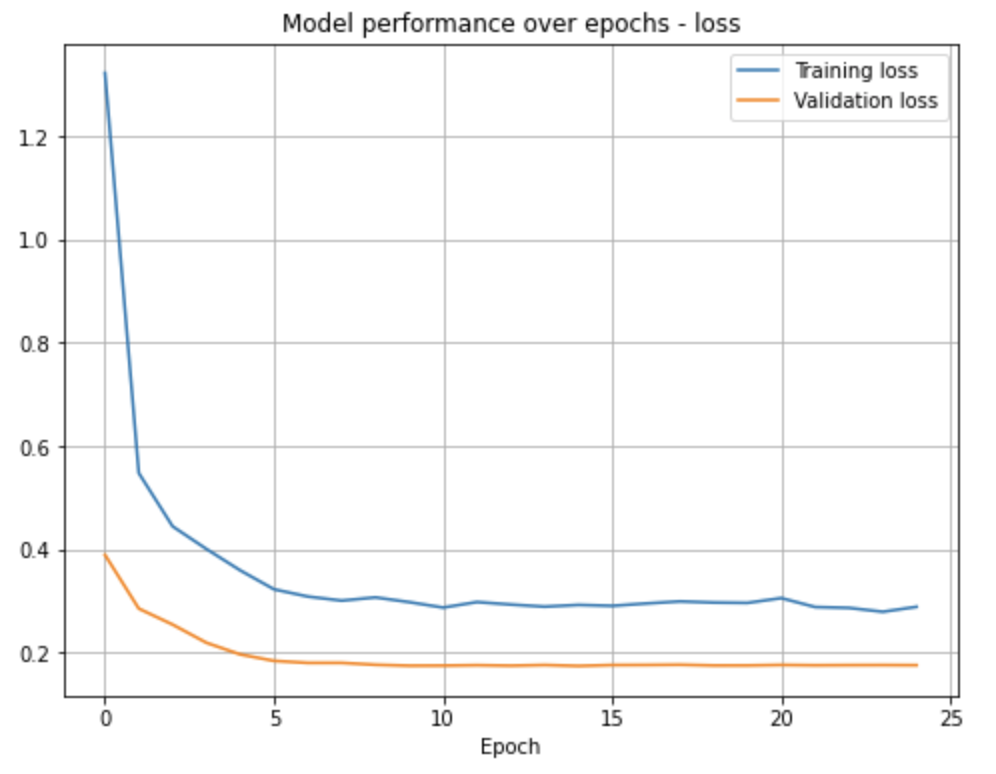
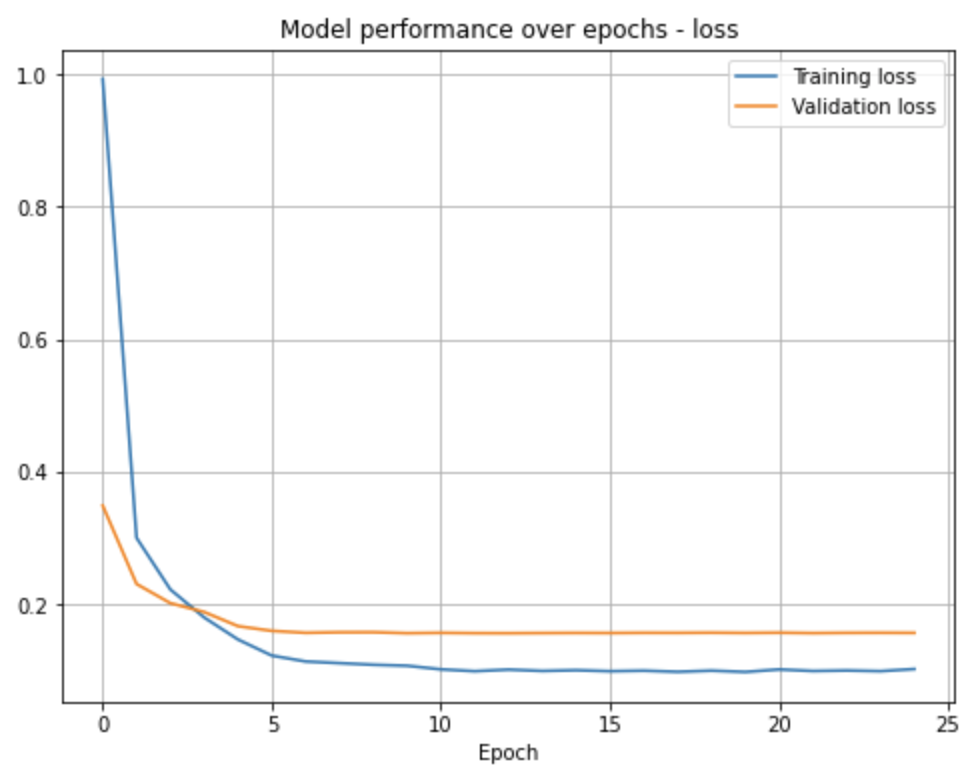
Update results

diff --git a/src/train.py b/src/train.py
@@ -174,6 +174,8 @@ class Trainer:
         logger.info("Training complete in {:.0f}m {:.0f}s".format(
         time_since // 60, time_since % 60))
         logger.info("Best val Acc: {:4f}".format(self.best_acc))
+        logger.info("Setting model to the best one found during training")
+        self.model.load_state_dict(self.best_model_wts)
 
     def plot_perf(self, metric='loss'):
         """

diff --git a/RESULTS.md b/RESULTS.md
@@ -10,26 +10,26 @@
 #### Test results
 |                       |   Top-1 |   Top-5 |
 |:----------------------|--------:|--------:|
-| Average (Micro)       |   82.08 |   95.39 |
-| Backpacks             |   92.03 |   99.58 |
+| Average (Micro)       |   86.8  |   95.74 |
+| Backpacks             |   97.9  |  100    |
 | Belts                 |   99.07 |   99.07 |
-| Briefs                |   96.79 |  100    |
-| Casual Shoes          |   73.2  |   99.46 |
-| Flip Flops            |   87.75 |   97.55 |
-| Formal Shoes          |   97.84 |   99.64 |
-| Handbags              |   94.82 |   99.73 |
-| Heels                 |   89.05 |   99.82 |
-| Jeans                 |   98.89 |   98.89 |
-| Kurtas                |   95.6  |  100    |
+| Briefs                |   95.19 |  100    |
+| Casual Shoes          |   80.69 |   99.61 |
+| Flip Flops            |   85.05 |   97.79 |
+| Formal Shoes          |   92.45 |   99.64 |
+| Handbags              |   96.28 |   99.87 |
+| Heels                 |   86.13 |   99.82 |
+| Jeans                 |   99.26 |  100    |
+| Kurtas                |   93.32 |  100    |
 | Perfume and Body Mist |    0    |    0    |
-| Sandals               |   78.33 |   99.76 |
-| Shirts                |   91.04 |   99.38 |
-| Socks                 |   95.58 |  100    |
-| Sports Shoes          |   82.42 |   99.39 |
+| Sandals               |   84.76 |  100    |
+| Shirts                |   97.56 |  100    |
+| Socks                 |   92.82 |  100    |
+| Sports Shoes          |   84.59 |   99.48 |
 | Sunglasses            |  100    |  100    |
-| Tops                  |   79.66 |  100    |
-| Tshirts               |   79.63 |   99.21 |
-| Wallets               |   98.21 |  100    |
+| Tops                  |   69.99 |   99.86 |
+| Tshirts               |   91.81 |   99.91 |
+| Wallets               |   97.62 |  100    |
 | Watches               |  100    |  100    |
 
 ### Fine-tune sub-split
